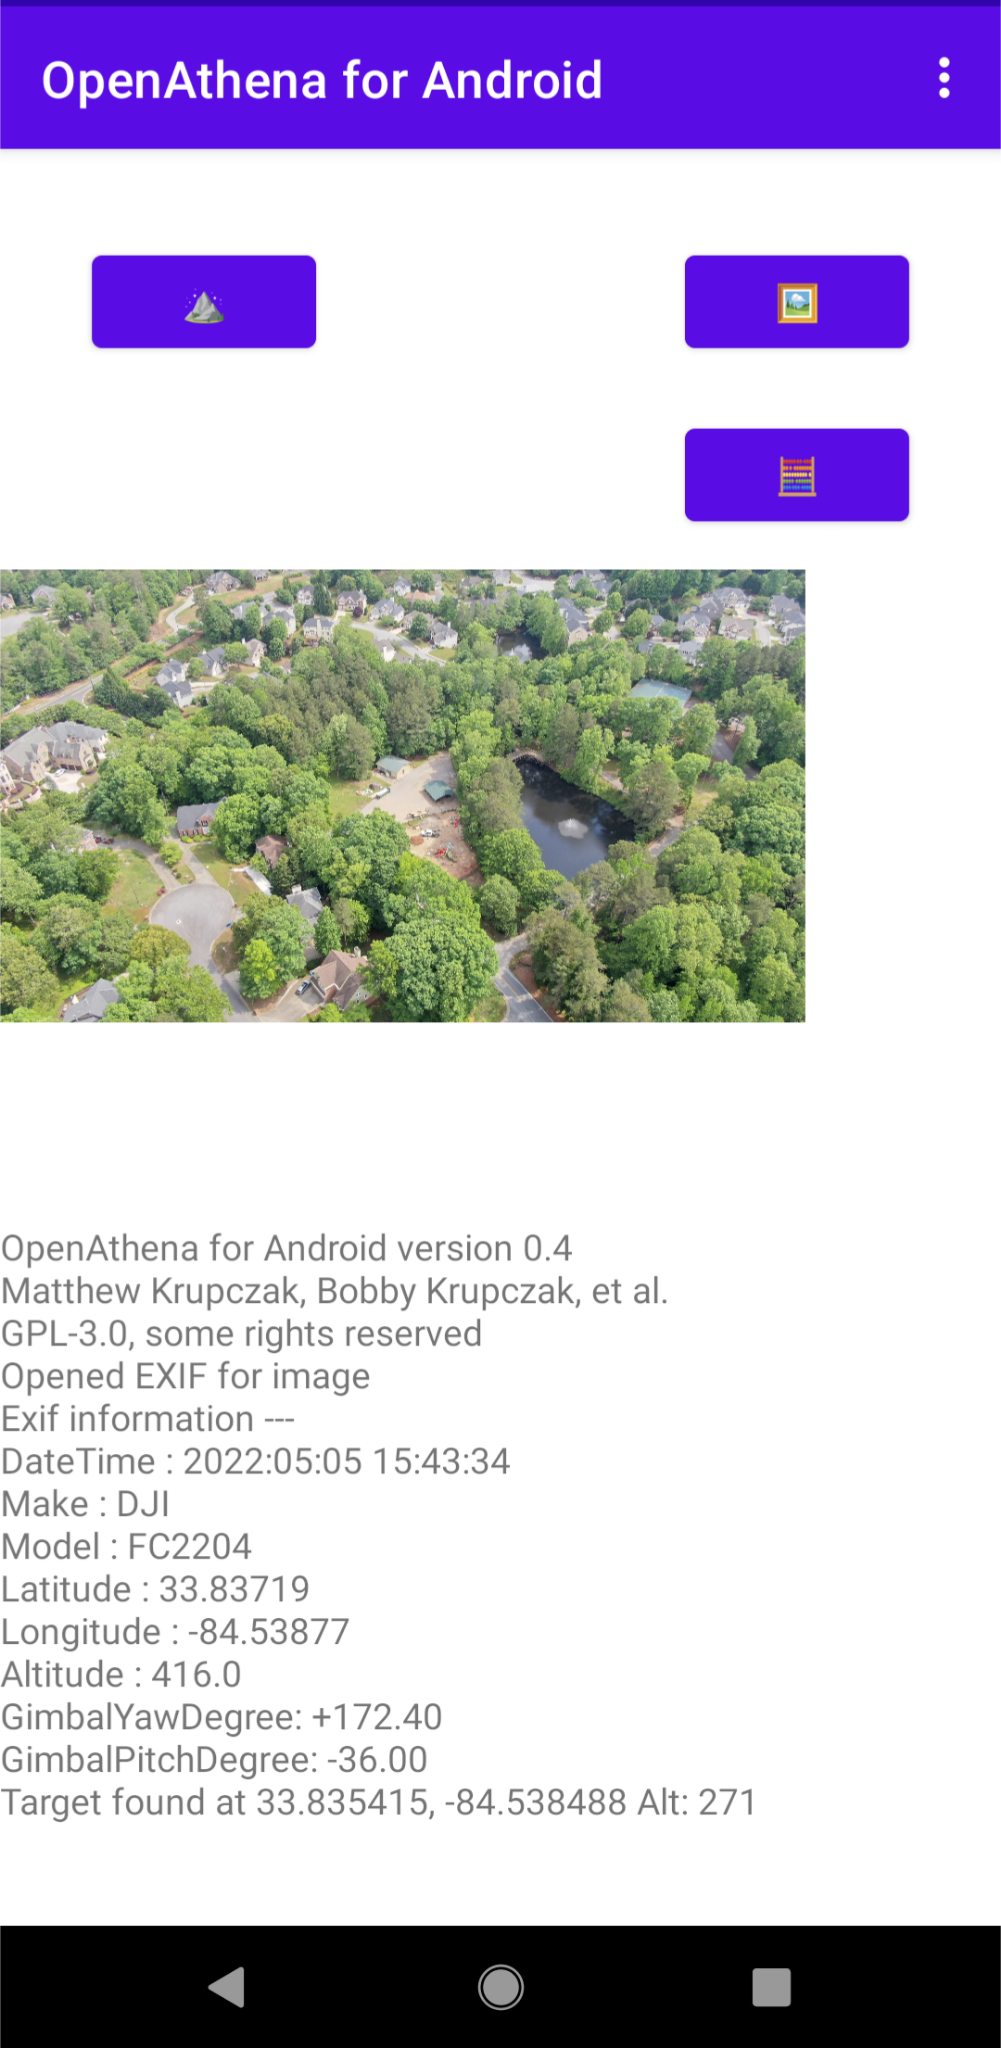
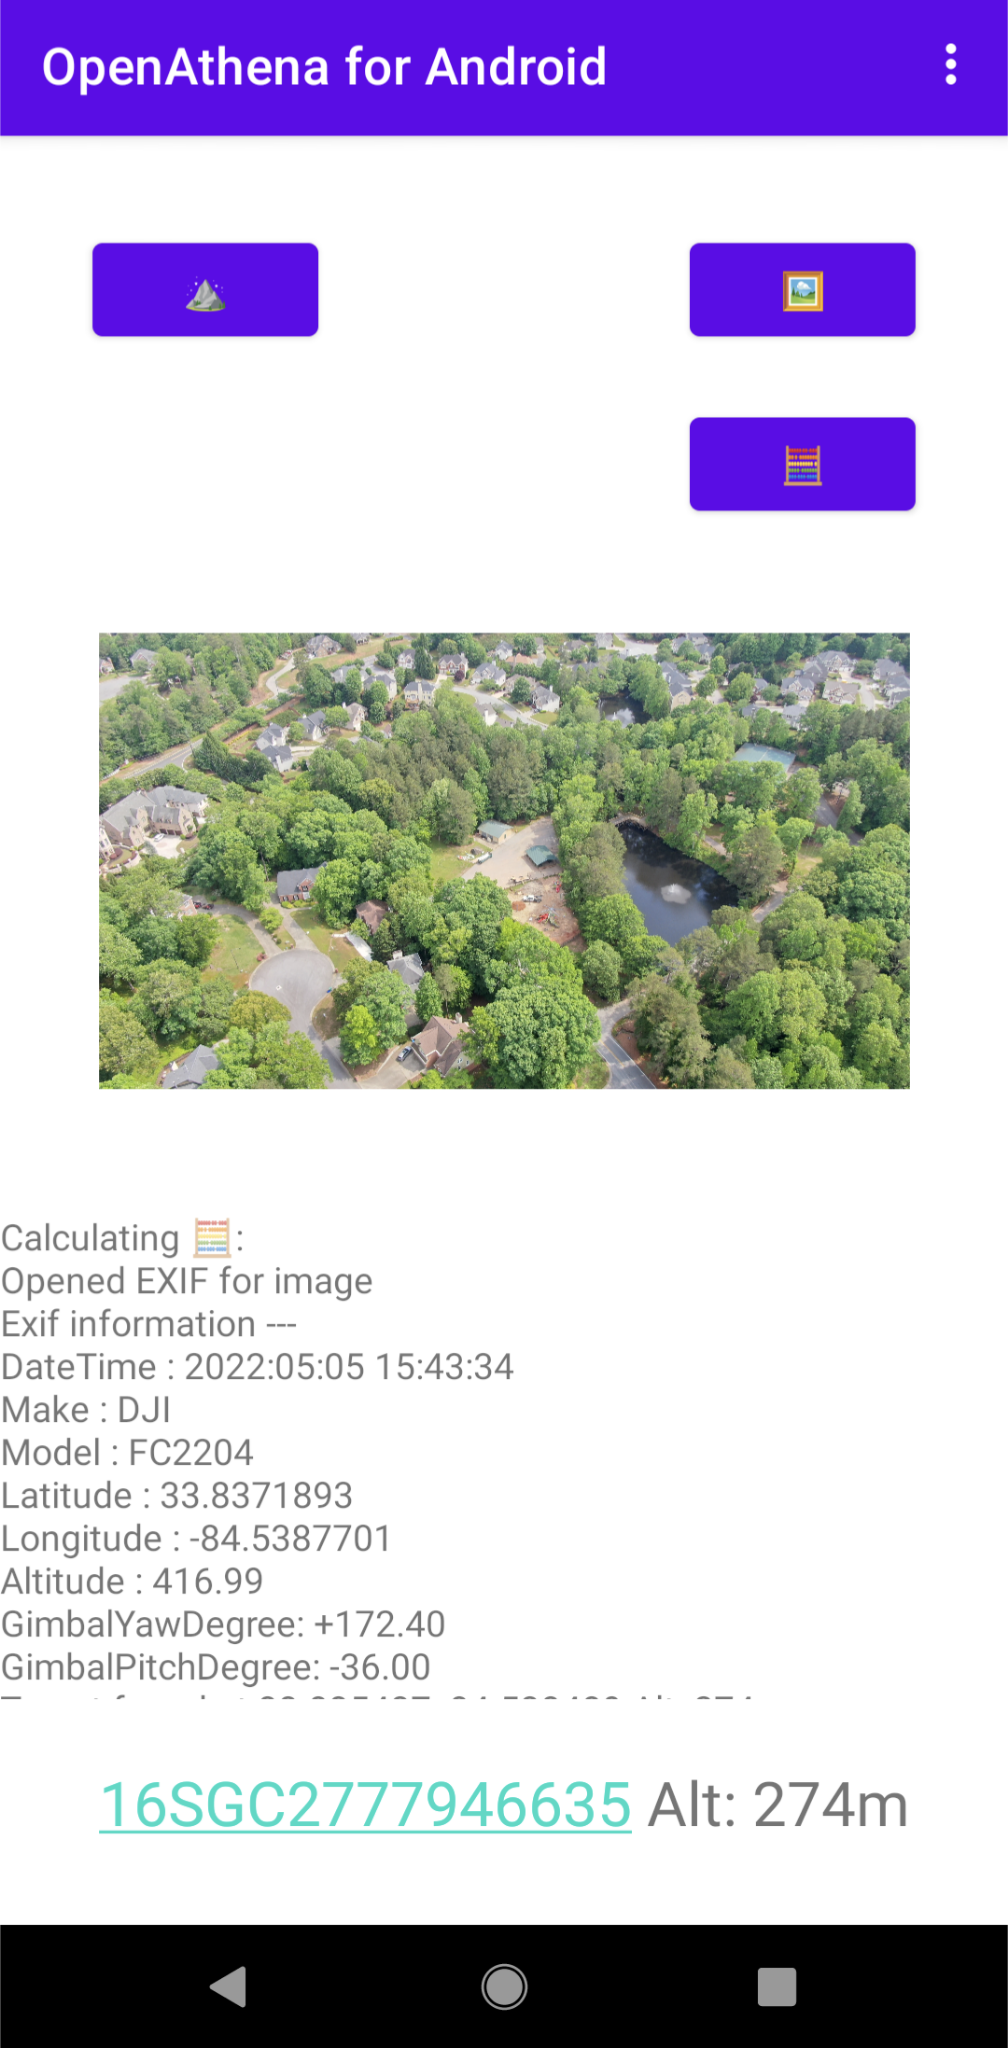
v0.7-pre-alpha

Changed region(s): [[0.0, 0.0, 1.0, 0.5312], [0.0, 0.5938, 0.8981, 0.9062]]

diff --git a/README.md b/README.md
@@ -1,34 +1,42 @@
 # OpenAthenaAndroid
 OpenAthena for Android
 
-# Operability
-This project is not yet stable. The main [OpenAthena project](http://OpenAthena.com) running on a PC/Mac should be used instead, until otherwise noted
+An Android port of the [OpenAthena project](http://OpenAthena.com)
 
-# Features
-This project is not designed to maintain feature parity with the main [OpenAthena project](http://OpenAthena.com).
-It is a parallel implementation of the same concept, on the Android platform to make it available
-to more users
+<a href="https://github.com/mkrupczak3/OpenAthena"><img width="540" alt="OpenAthena Drone Camera Terrain Raycast Concept Diagram" src="https://github.com/mkrupczak3/OpenAthena/raw/main/assets/OpenAthena_Concept_Diagram.png"></a>
 
-## GeoTIFF parsing:
+# Stability
+This project is not yet stable. Consider using the main [OpenAthena project](http://OpenAthena.com)running on a PC/Mac instead, until otherwise noted
 
-This app uses the open source [tiff-java library](https://github.com/ngageoint/tiff-java) maintained by the U.S. [National Geospatial Intelligence Agency](https://www.nga.mil/) to read GeoTIFF Digital Elevation Model (DEM) files, stored as a ".tif" file.
+# Operation Guide
+
+## GeoTIFF Digital Elevation Model parsing:
+
+Use of this app requires loading a GeoTIFF Digital Elevation Model (DEM) file, stored as a GeoTIFF ".tif" file.
+
+These GeoTIFF files store terrain elevation (height) for an area of the Earth. OpenAthena performs a ray-cast from a drone camera's position and orientation towards terrain. This may be used to precisely locate the subject which appears in the exact center of a given picture.
 
 For information on how to clip a GeoTIFF file of a customized area, see [this link](https://github.com/mkrupczak3/OpenAthena/blob/main/EIO_fetch_geotiff_example.md).
 
-Load the DEM file, e.g. [cobb.tif](https://github.com/mkrupczak3/OpenAthena/raw/main/src/cobb.tif) using the " ⛰" button (NOTE: during file selection, the thumbnail preview for any GeoTIFF ".tif" file will be blank. This is normal.), and the app will display the size of the file as well as its Latitude and Longitude boundaries:
+Load the DEM file, e.g. [cobb.tif](https://github.com/mkrupczak3/OpenAthena/raw/main/src/cobb.tif) using the " ⛰" button (NOTE: during file selection, the thumbnail  image preview for any GeoTIFF ".tif" file will be blank. This is normal.), and the app will display the size of the file as well as its Latitude and Longitude boundaries:
 
 
-<img width="640" alt="OpenAthena Android GeoTIFF DEM loading demo using cobb.tif" src="./assets/cobb_tif_DEM_Loading_Demo.png">
+<img width="270" alt="OpenAthena Android GeoTIFF DEM loading demo using cobb.tif" src="./assets/cobb_tif_DEM_Loading_Demo.png">
 
 
 ## JPG Drone sensor metadata parsing
 
-This prototype version can only read sensor metadata from images taken by a DJI drone. The the drones position (Latitude Longitude Altitude) and the camera gimbal's azimuth and angle of depression are obtained from XMP metadata.
+This version of the app can only read sensor metadata from images taken by a DJI drone. The the drone's position (Latitude Longitude Altitude) and its camera gimbal's azimuth and angle of depression are obtained from XMP metadata.
 
-After loading a GeoTIFF DEM using the " ⛰" button, use the "🖼" button to select a drone image containing the necessary metadata. Then press the "🧮" button to calculate the target location on the ground:
+## Locating a Target 🎯
 
+After loading a GeoTIFF DEM using the " ⛰" button (see section above), use the "🖼" button to select a drone image containing the necessary metadata.
 
-<img width="640" alt="OpenAthena Android Target Calculation demo using cobb.tif and DJI_0419.JPG" src="./assets/DJI_0419_Target_Res_Demo.png">
+<img width="270" alt="OpenAthena Android Image Selection demo using DJI_0419.JPG" src="./assets/DJI_0419_Target_Res_Demo.png">
+
+Then, press the "🧮" button to calculate the target location on the ground:
+
+<img width="270" alt="OpenAthena Android Target Calculation demo using cobb.tif and DJI_0419.JPG" src="./assets/DJI_0419_Target_Res_Demo.png">
 
 
 ## Live Telemetry from DJI-SDK
